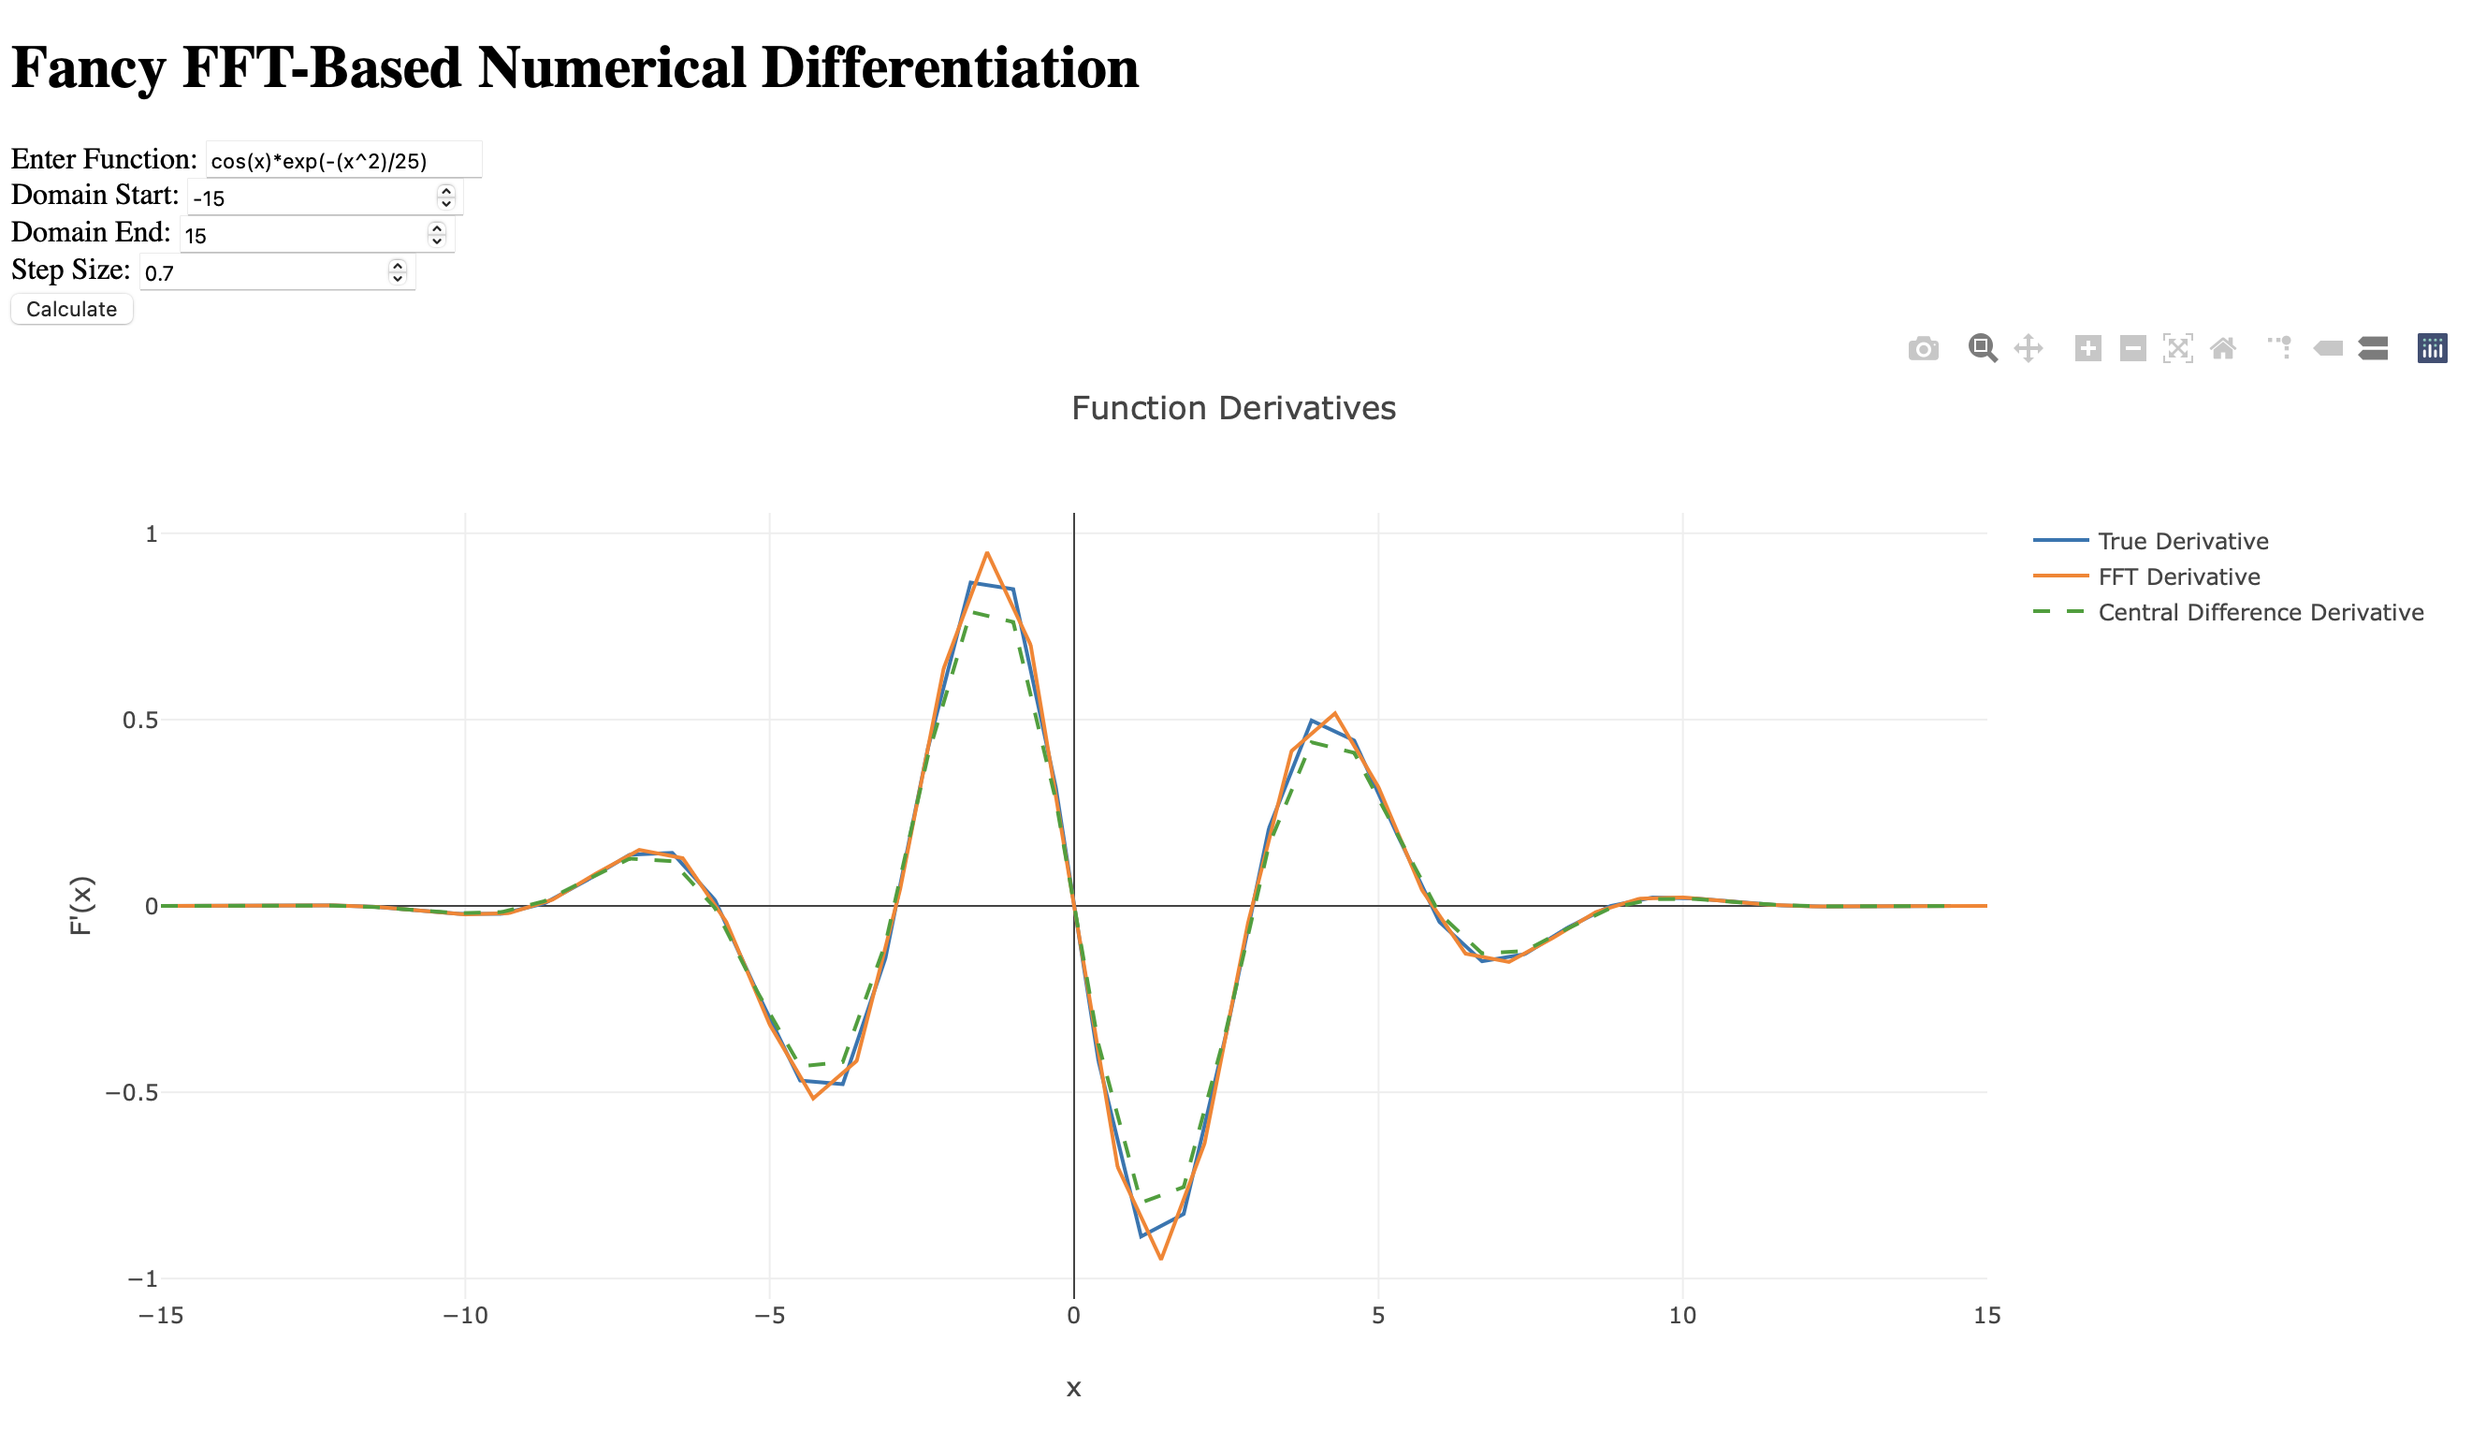
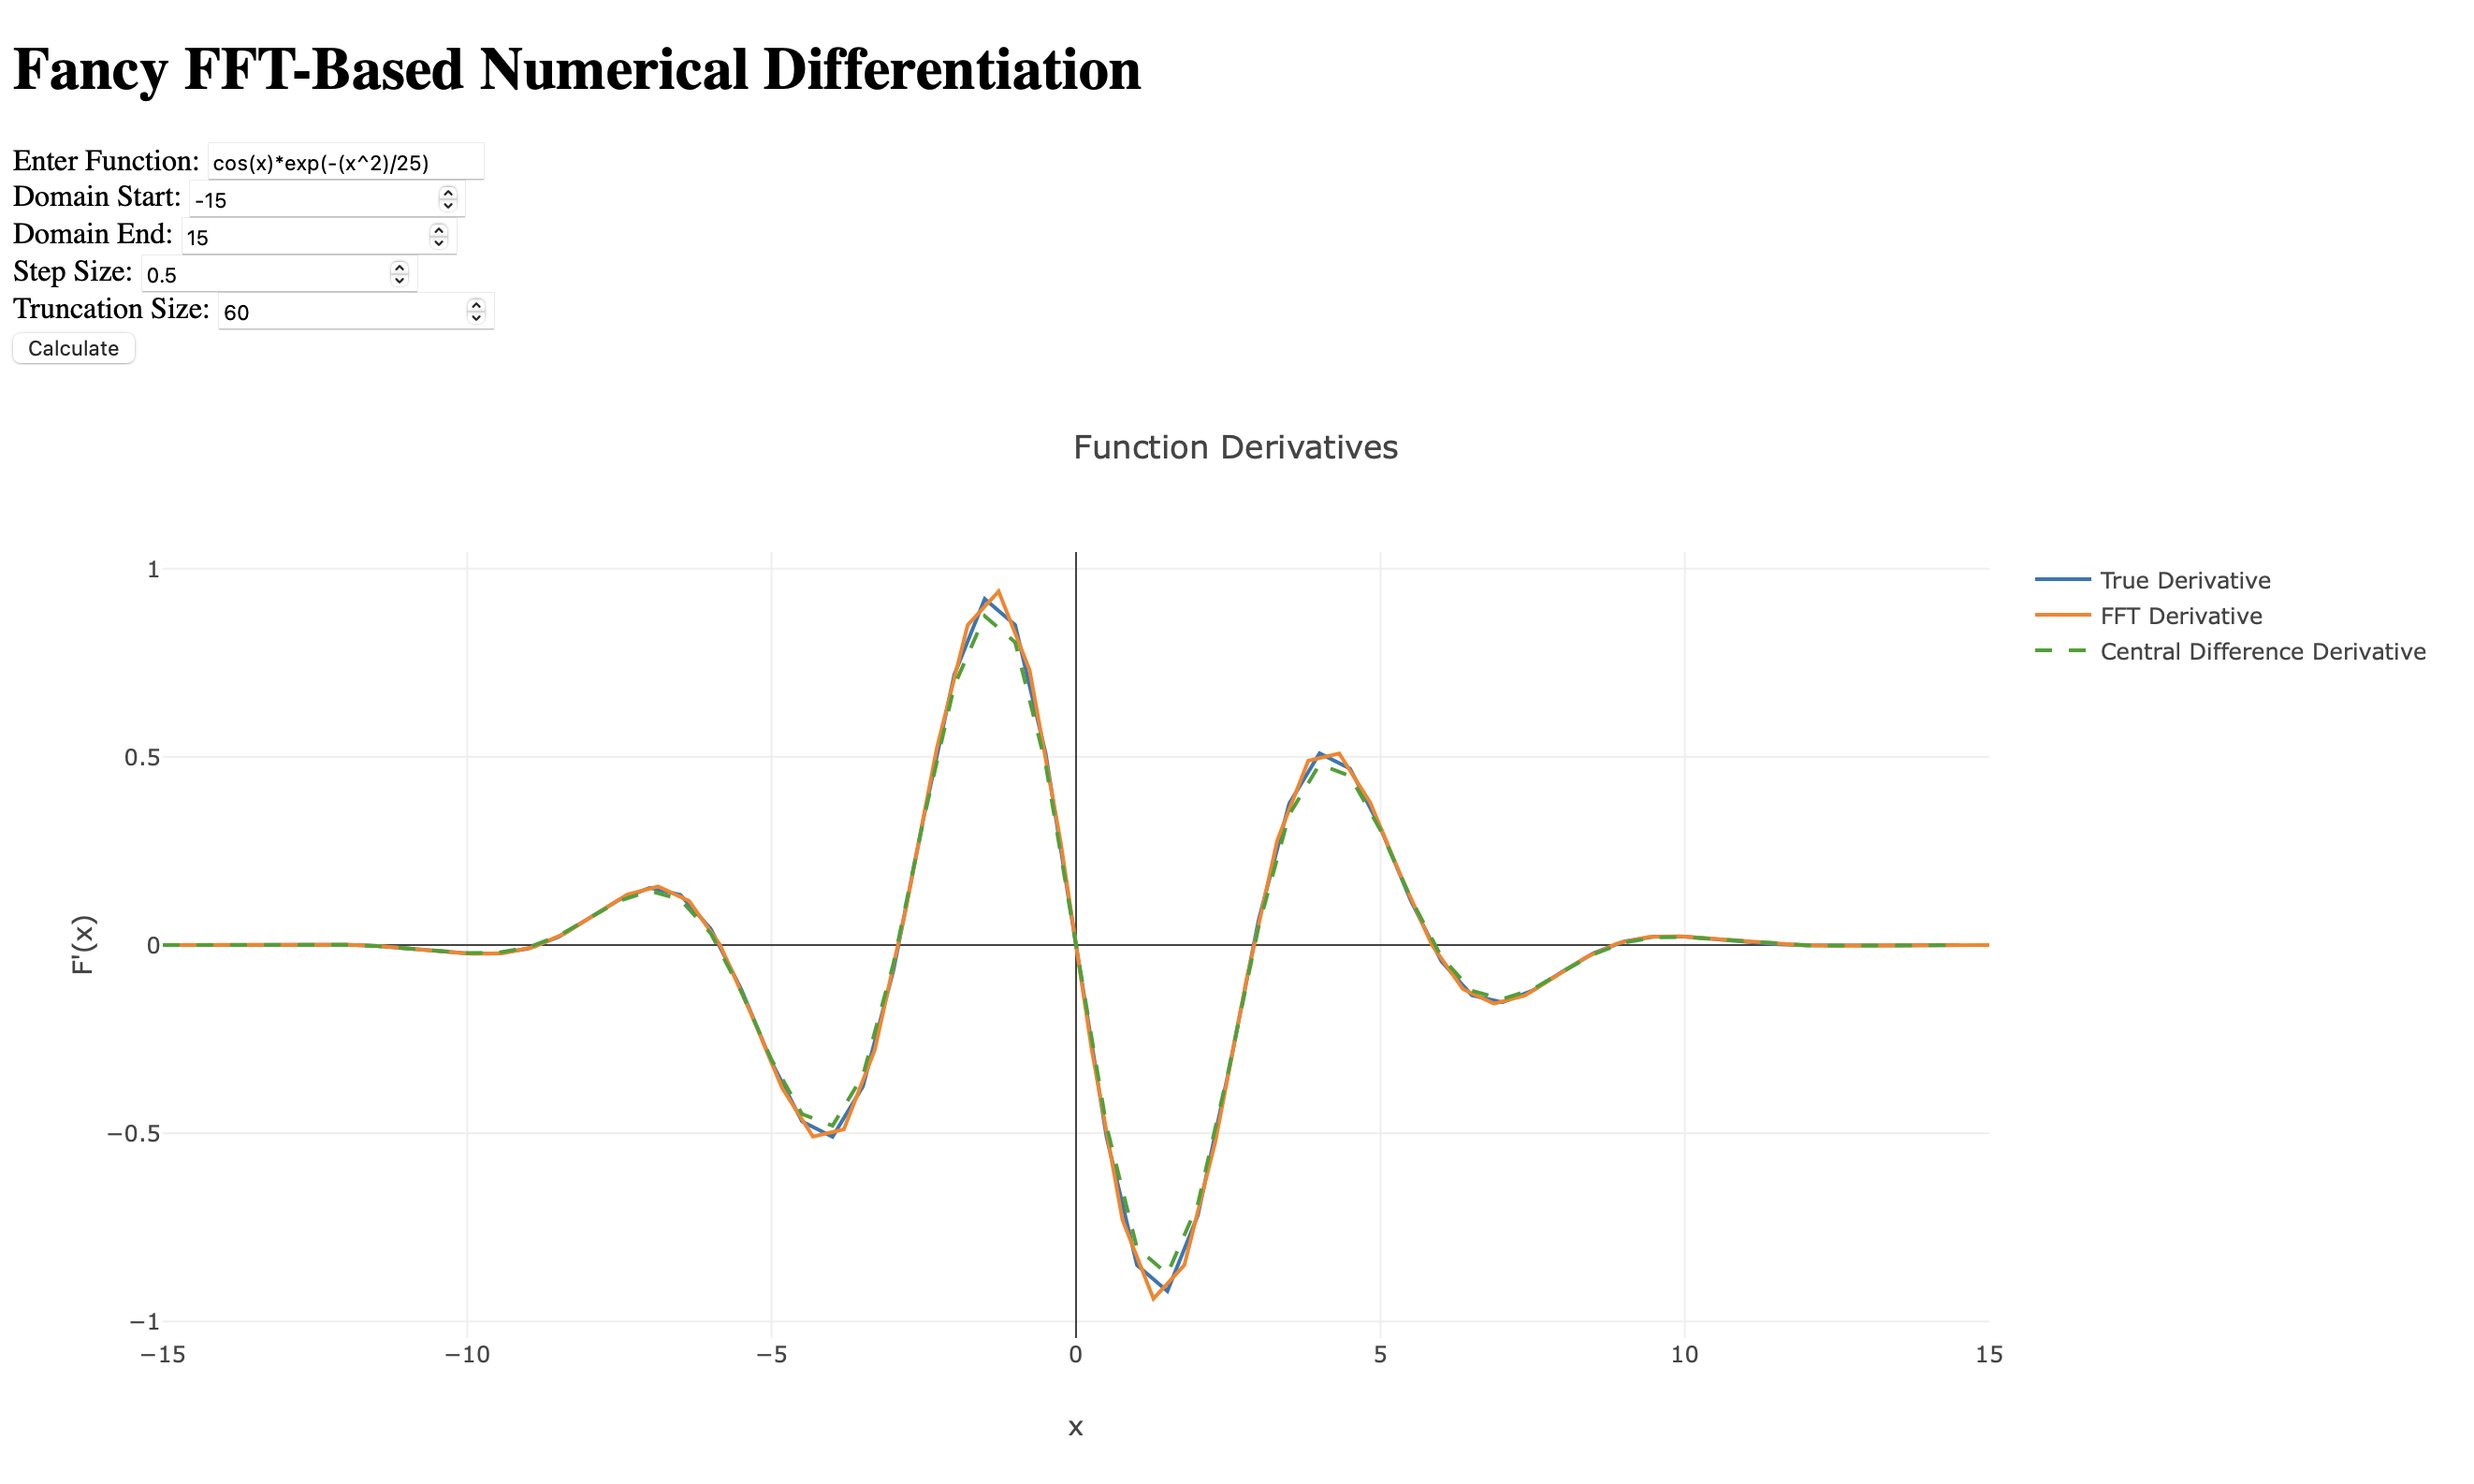
Update README and example image

diff --git a/README.md b/README.md
@@ -34,13 +34,13 @@ This web application, built with Flask, provides an interactive platform to visu
 4. **Running the Application**
    - **Start the Flask Application**:
      ```bash
-     python app.py
+     python3 app.py
    - **Access the Application**:
      Open a web browser and navigate to [http://127.0.0.1:5000] or [http://localhost:5000].
 
 ## Using the Website
 1. **Enter a Function**: Input a mathematical function in the provided field (e.g., `sin(x)`, `cos(x) * exp(-x**2)`).
-2. **Specify Domain Range and Step Size**: Input the start and end values for the domain and specify the step size for the calculations.
+2. **Specify Domain Range and Step/Truncation Size**: Input the start and end values for the domain and specify the step and truncation size for the calculations.
 3. **View the Graphs**: After submitting your input, the application will display three plots:
    - The true derivative of the function.
    - The FFT approximated derivative.
